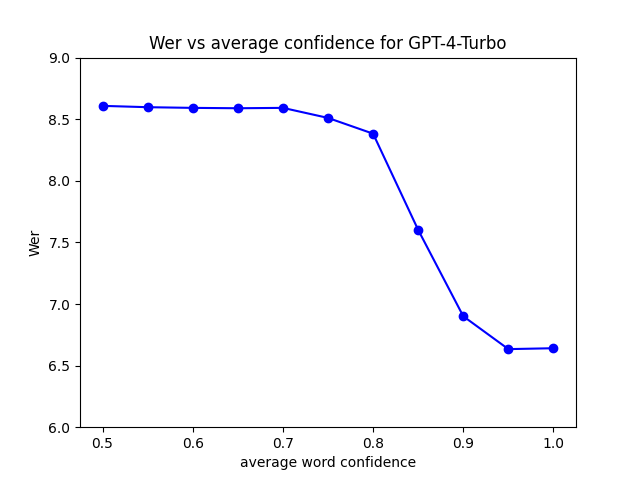
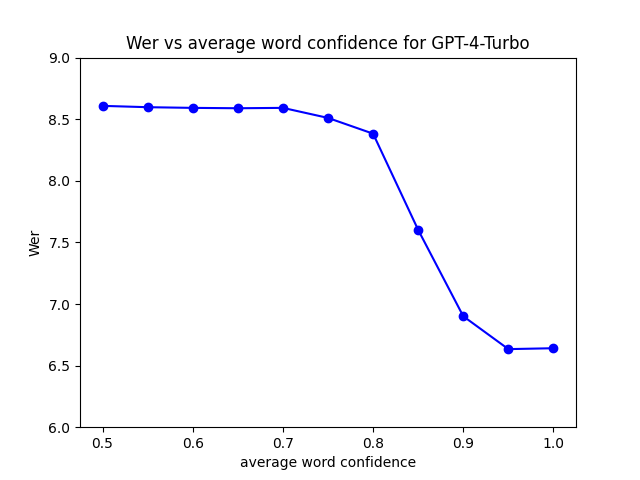
adding CER vs. Threshold plots for each experiment

Changed region(s): [[0.1875, 0.0625, 0.8438, 0.125]]

diff --git a/scripts/exp_lowest_confidence_word/exp_GPT-4-Turbo/exp_find_thresh_lowest_confidence_words_GPT-4-Turbo.py b/scripts/exp_lowest_confidence_word/exp_GPT-4-Turbo/exp_find_thresh_lowest_confidence_words_GPT-4-Turbo.py
@@ -10,9 +10,10 @@ from dotenv import load_dotenv
 load_dotenv()
 Root = os.getenv("ROOT_PATH")
 
-l=os.path.join(Root,"results/results_lowest_word_confidence/results_GPT-4-Turbo/results_without_lowest_confidence_words_GPT-4-Turbo/whisper_corrected_transcriptions.json")
-OUTPUT_FILE = os.path.join(Root,"results/results_lowest_confidence_words/results_GPT-4-Turbo/results_find_thresh_lowest_confidence_words_GPT-4-Turbo/results_whisper.md")
-output_file = os.path.join(Root,"results/results_lowest_confidence_words/results_GPT-4-Turbo/results_find_thresh_lowest_confidence_words_GPT-4-Turbo/plots/Wer_vs_lowest_confidence_plot.png")
+l=os.path.join(Root,"results/results_lowest_confidence_word/results_GPT-4-Turbo/results_without_lowest_confidence_word_GPT-4-Turbo/whisper_corrected_transcriptions.json")
+OUTPUT_FILE = os.path.join(Root,"results/results_lowest_confidence_word/results_GPT-4-Turbo/results_find_thresh_lowest_confidence_word_GPT-4-Turbo/results_whisper.md")
+output_file_wer = os.path.join(Root,"results/results_lowest_confidence_word/results_GPT-4-Turbo/results_find_thresh_lowest_confidence_word_GPT-4-Turbo/plots/Wer_vs_lowest_confidence_plot.png")
+output_file_cer = os.path.join(Root,"results/results_lowest_confidence_word/results_GPT-4-Turbo/results_find_thresh_lowest_confidence_word_GPT-4-Turbo/plots/Cer_vs_lowest_confidence_plot.png")
 
 with open(l , "r") as f:
     json_obj=f.read()
@@ -70,15 +71,27 @@ for thresh in thresholds:
 def plot(l):
 
     x = [dictionary["thresh"] for dictionary in l]
-    y = [dictionary["wer"] for dictionary in l]
+    y_wer = [dictionary["wer"] for dictionary in l]
     
-    plt.plot(x, y, "-ob", label="Wer")
-    plt.xlabel("lowest-word confidence")
+    plt.figure()
+    plt.plot(x, y_wer, "-ob", label="Wer")
+    plt.xlabel("lowest word confidence")
     plt.ylabel("Wer")
-    plt.title("Wer vs lowest-word confidence for GPT-4-Turbo")
+    plt.title("Wer vs lowest word confidence for GPT-4-Turbo")
     plt.yticks([6,6.5,7,7.5,8,8.5,9])
     #plt.show()
-    plt.savefig(output_file)
+    plt.savefig(output_file_wer)
+    
+    
+    y_cer = [dictionary["cer"] for dictionary in l]
+    plt.figure()
+    plt.plot(x, y_cer, "-or", label="Cer")
+    plt.xlabel("lowest word confidence")
+    plt.ylabel("Cer")
+    plt.title("Cer vs lowest word confidence for GPT-4-Turbo")
+    plt.yticks([2.5,3,3.5,4,4.5,5])
+    #plt.show()
+    plt.savefig(output_file_cer)
    
 plot(results)
 

diff --git a/scripts/exp_lowest_confidence_word/exp_GPT-3.5-Turbo/exp_find_thresh_lowest_confidence_word.py b/scripts/exp_lowest_confidence_word/exp_GPT-3.5-Turbo/exp_find_thresh_lowest_confidence_word.py
@@ -10,9 +10,10 @@ from dotenv import load_dotenv
 load_dotenv()
 Root = os.getenv("ROOT_PATH")
 
-l=os.path.join(Root,"results/results_lowest_word_confidence/results_GPT-3.5-Turbo/results_without_lowest_confidence_words/whisper_corrected_transcriptions.json")
-OUTPUT_FILE = os.path.join(Root,"results/results_lowest_confidence_words/results_GPT-3.5-Turbo/results_find_thresh_lowest_confidence_words/results_whisper.md")
-output_file = os.path.join(Root,"results/results_lowest_confidence_words/results_GPT-3.5-Turbo/results_find_thresh_lowest_confidence_words/plots/Wer_vs_confidence_plot.png")
+l=os.path.join(Root,"results/results_lowest_confidence_word/results_GPT-3.5-Turbo/results_without_lowest_confidence_word/whisper_corrected_transcriptions.json")
+OUTPUT_FILE = os.path.join(Root,"results/results_lowest_confidence_word/results_GPT-3.5-Turbo/results_find_thresh_lowest_confidence_word/results_whisper.md")
+output_file_wer = os.path.join(Root,"results/results_lowest_confidence_word/results_GPT-3.5-Turbo/results_find_thresh_lowest_confidence_word/plots/Wer_vs_confidence_plot.png")
+output_file_cer = os.path.join(Root,"results/results_lowest_confidence_word/results_GPT-3.5-Turbo/results_find_thresh_lowest_confidence_word/plots/Cer_vs_confidence_plot.png")
 
 with open(l , "r") as f:
     json_obj=f.read()
@@ -70,15 +71,27 @@ for thresh in thresholds:
 def plot(l):
 
     x = [dictionary["thresh"] for dictionary in l]
-    y = [dictionary["wer"] for dictionary in l]
+    y_wer = [dictionary["wer"] for dictionary in l]
     
-    plt.plot(x, y, "-ob", label="Wer")
-    plt.xlabel("lowest-word confidence")
+    plt.figure()
+    plt.plot(x, y_wer, "-ob", label="Wer")
+    plt.xlabel("lowest word confidence")
     plt.ylabel("Wer")
-    plt.title("Wer vs lowest-word confidence for GPT-3.5-Turbo")
+    plt.title("Wer vs lowest word confidence for GPT-3.5-Turbo")
     plt.yticks([6,6.5,7,7.5,8,8.5,9])
     #plt.show()
-    plt.savefig(output_file)
+    plt.savefig(output_file_wer)
+    
+    
+    y_cer = [dictionary["cer"] for dictionary in l]
+    plt.figure()
+    plt.plot(x, y_cer, "-or", label="Cer")
+    plt.xlabel("lowest word confidence")
+    plt.ylabel("Cer")
+    plt.title("Cer vs lowest word confidence for GPT-3.5-Turbo")
+    plt.yticks([2.5,3,3.5,4,4.5,5])
+    #plt.show()
+    plt.savefig(output_file_cer)
    
 plot(results)
 

diff --git a/scripts/exp_average_word_confidence/exp_GPT-4-Turbo/exp_find_thresh_average_word_confidence_GPT-4-Turbo.py b/scripts/exp_average_word_confidence/exp_GPT-4-Turbo/exp_find_thresh_average_word_confidence_GPT-4-Turbo.py
@@ -12,7 +12,8 @@ Root = os.getenv("ROOT_PATH")
 
 l=os.path.join(Root,"results/results_average_word_confidence/results_GPT-4-Turbo/results_without_average_word_confidence_GPT-4-Turbo/whisper_corrected_transcriptions.json")
 OUTPUT_FILE = os.path.join(Root,"results/results_average_word_confidence/results_GPT-4-Turbo/results_find_thresh_average_word_confidence_GPT-4-Turbo/results_whisper.md")
-output_file = os.path.join(Root,"results/results_average_word_confidence/results_GPT-4-Turbo/results_find_thresh_average_word_confidence_GPT-4-Turbo/plots/Wer_vs_confidence_plot.png")
+output_file_wer = os.path.join(Root,"results/results_average_word_confidence/results_GPT-4-Turbo/results_find_thresh_average_word_confidence_GPT-4-Turbo/plots/Wer_vs_confidence_plot.png")
+output_file_cer = os.path.join(Root,"results/results_average_word_confidence/results_GPT-4-Turbo/results_find_thresh_average_word_confidence_GPT-4-Turbo/plots/Cer_vs_confidence_plot.png")
 
 with open(l , "r") as f:
     json_obj=f.read()
@@ -70,15 +71,27 @@ for thresh in thresholds:
 def plot(l):
 
     x = [dictionary["thresh"] for dictionary in l]
-    y = [dictionary["wer"] for dictionary in l]
+    y_wer = [dictionary["wer"] for dictionary in l]
     
-    plt.plot(x, y, "-ob", label="Wer")
+    plt.figure()
+    plt.plot(x, y_wer, "-ob", label="Wer")
     plt.xlabel("average word confidence")
     plt.ylabel("Wer")
-    plt.title("Wer vs average confidence for GPT-4-Turbo")
+    plt.title("Wer vs average word confidence for GPT-4-Turbo")
     plt.yticks([6,6.5,7,7.5,8,8.5,9])
     #plt.show()
-    plt.savefig(output_file)
+    plt.savefig(output_file_wer)
+    
+    
+    y_cer = [dictionary["cer"] for dictionary in l]
+    plt.figure()
+    plt.plot(x, y_cer, "-or", label="Cer")
+    plt.xlabel("average word confidence")
+    plt.ylabel("Cer")
+    plt.title("Cer vs average word confidence for GPT-4-Turbo")
+    plt.yticks([2.5,3,3.5,4,4.5,5])
+    #plt.show()
+    plt.savefig(output_file_cer)
    
 plot(results)
 

diff --git a/scripts/exp_sentence_confidence/exp_GPT-4-Turbo/exp_find_thresh_sentence_confidence_GPT-4-Turbo.py b/scripts/exp_sentence_confidence/exp_GPT-4-Turbo/exp_find_thresh_sentence_confidence_GPT-4-Turbo.py
@@ -12,7 +12,8 @@ Root = os.getenv("ROOT_PATH")
 
 l=os.path.join(Root,"results/results_sentence_confidence/results_GPT-4-Turbo/results_without_sentence_confidence_GPT-4-Turbo/whisper_corrected_transcriptions.json")
 OUTPUT_FILE = os.path.join(Root,"results/results_sentence_confidence/results_GPT-4-Turbo/results_find_thresh_sentence_confidence_GPT-4-Turbo/results_whisper.md")
-output_file = os.path.join(Root,"results/results_sentence_confidence/results_GPT-4-Turbo/results_find_thresh_sentence_confidence_GPT-4-Turbo/plots/Wer_vs_sentence-confidence_plot.png")
+output_file_wer = os.path.join(Root,"results/results_sentence_confidence/results_GPT-4-Turbo/results_find_thresh_sentence_confidence_GPT-4-Turbo/plots/Wer_vs_sentence-confidence_plot.png")
+output_file_cer = os.path.join(Root,"results/results_sentence_confidence/results_GPT-4-Turbo/results_find_thresh_sentence_confidence_GPT-4-Turbo/plots/Cer_vs_sentence-confidence_plot.png")
 
 with open(l , "r") as f:
     json_obj=f.read()
@@ -70,15 +71,27 @@ for thresh in thresholds:
 def plot(l):
 
     x = [dictionary["thresh"] for dictionary in l]
-    y = [dictionary["wer"] for dictionary in l]
+    y_wer = [dictionary["wer"] for dictionary in l]
     
-    plt.plot(x, y, "-ob", label="Wer")
+    plt.figure()
+    plt.plot(x, y_wer, "-ob", label="Wer")
     plt.xlabel("sentence confidence")
     plt.ylabel("Wer")
-    plt.title("Wer vs sentence confidence for GPT-4-Turbo")
+    plt.title("Wer sentence confidence for GPT-4-Turbo")
     plt.yticks([6,6.5,7,7.5,8,8.5,9])
     #plt.show()
-    plt.savefig(output_file)
+    plt.savefig(output_file_wer)
+    
+    
+    y_cer = [dictionary["cer"] for dictionary in l]
+    plt.figure()
+    plt.plot(x, y_cer, "-or", label="Cer")
+    plt.xlabel("sentence confidence")
+    plt.ylabel("Cer")
+    plt.title("Cer vs sentence confidence for GPT-4-Turbo")
+    plt.yticks([2.5,3,3.5,4,4.5,5])
+    #plt.show()
+    plt.savefig(output_file_cer)
    
 plot(results)
 

diff --git a/scripts/exp_average_word_confidence/exp_GPT-3.5-Turbo/exp_find_thresh_average_word_confidence.py b/scripts/exp_average_word_confidence/exp_GPT-3.5-Turbo/exp_find_thresh_average_word_confidence.py
@@ -12,7 +12,8 @@ Root = os.getenv("ROOT_PATH")
 
 l=os.path.join(Root,"results/results_average_word_confidence/results_GPT-3.5-Turbo/results_without_average_word_confidence/whisper_corrected_transcriptions.json")
 OUTPUT_FILE = os.path.join(Root,"results/results_average_word_confidence/results_GPT-3.5-Turbo/results_find_thresh_average_word_confidence/results_whisper.md")
-output_file = os.path.join(Root,"results/results_average_word_confidence/results_GPT-3.5-Turbo/results_find_thresh_average_word_confidence/plots/Wer_vs_confidence_plot.png")
+output_file_wer = os.path.join(Root,"results/results_average_word_confidence/results_GPT-3.5-Turbo/results_find_thresh_average_word_confidence/plots/Wer_vs_confidence_plot.png")
+output_file_cer = os.path.join(Root,"results/results_average_word_confidence/results_GPT-3.5-Turbo/results_find_thresh_average_word_confidence/plots/Cer_vs_confidence_plot.png")
 
 with open(l , "r") as f:
     json_obj=f.read()
@@ -70,15 +71,28 @@ for thresh in thresholds:
 def plot(l):
 
     x = [dictionary["thresh"] for dictionary in l]
-    y = [dictionary["wer"] for dictionary in l]
+    y_wer = [dictionary["wer"] for dictionary in l]
     
-    plt.plot(x, y, "-ob", label="Wer")
+    plt.figure()
+    plt.plot(x, y_wer, "-ob", label="Wer")
     plt.xlabel("average word confidence")
     plt.ylabel("Wer")
     plt.title("Wer vs average word confidence for GPT-3.5-Turbo")
     plt.yticks([6,6.5,7,7.5,8,8.5,9])
     #plt.show()
-    plt.savefig(output_file)
+    plt.savefig(output_file_wer)
+    
+    
+    y_cer = [dictionary["cer"] for dictionary in l]
+    
+    plt.figure()
+    plt.plot(x, y_cer, "-or", label="Cer")
+    plt.xlabel("average word confidence")
+    plt.ylabel("Cer")
+    plt.title("Cer vs average word confidence for GPT-3.5-Turbo")
+    plt.yticks([2.5,3,3.5,4,4.5,5])
+    #plt.show()
+    plt.savefig(output_file_cer)
    
 plot(results)
 

diff --git a/scripts/exp_sentence_confidence/exp_GPT-3.5-Turbo/exp_find_thresh_sentence_confidence.py b/scripts/exp_sentence_confidence/exp_GPT-3.5-Turbo/exp_find_thresh_sentence_confidence.py
@@ -12,7 +12,8 @@ Root = os.getenv("ROOT_PATH")
 
 l=os.path.join(Root,"results/results_sentence_confidence/results_GPT-3.5-Turbo/results_without_sentence_confidence/whisper_corrected_transcriptions.json")
 OUTPUT_FILE = os.path.join(Root,"results/results_sentence_confidence/results_GPT-3.5-Turbo/results_find_thresh_sentence_confidence/results_whisper.md")
-output_file = os.path.join(Root,"results/results_sentence_confidence/results_GPT-3.5-Turbo/results_find_thresh_sentence_confidence/plots/Wer_vs_sentence_confidence_plot.png")
+output_file_wer = os.path.join(Root,"results/results_sentence_confidence/results_GPT-3.5-Turbo/results_find_thresh_sentence_confidence/plots/Wer_vs_sentence_confidence_plot.png")
+output_file_cer = os.path.join(Root,"results/results_sentence_confidence/results_GPT-3.5-Turbo/results_find_thresh_sentence_confidence/plots/Cer_vs_sentence_confidence_plot.png")
 
 with open(l , "r") as f:
     json_obj=f.read()
@@ -70,15 +71,28 @@ for thresh in thresholds:
 def plot(l):
 
     x = [dictionary["thresh"] for dictionary in l]
-    y = [dictionary["wer"] for dictionary in l]
+    y_wer = [dictionary["wer"] for dictionary in l]
     
-    plt.plot(x, y, "-ob", label="Wer")
+    plt.figure()
+    plt.plot(x, y_wer, "-ob", label="Wer")
     plt.xlabel("sentence confidence")
     plt.ylabel("Wer")
     plt.title("Wer vs sentence confidence for GPT-3.5-Turbo")
     plt.yticks([6,6.5,7,7.5,8,8.5,9])
     #plt.show()
-    plt.savefig(output_file)
+    plt.savefig(output_file_wer)
+    
+    
+    y_cer = [dictionary["cer"] for dictionary in l]
+    plt.figure()
+    plt.plot(x, y_cer, "-or", label="Cer")
+    plt.xlabel("sentence confidence")
+    plt.ylabel("Cer")
+    plt.title("Cer vs sentence confidence for GPT-3.5-Turbo")
+    plt.yticks([2.5,3,3.5,4,4.5,5])
+    #plt.show()
+    plt.savefig(output_file_cer)
+   
    
 plot(results)
 
